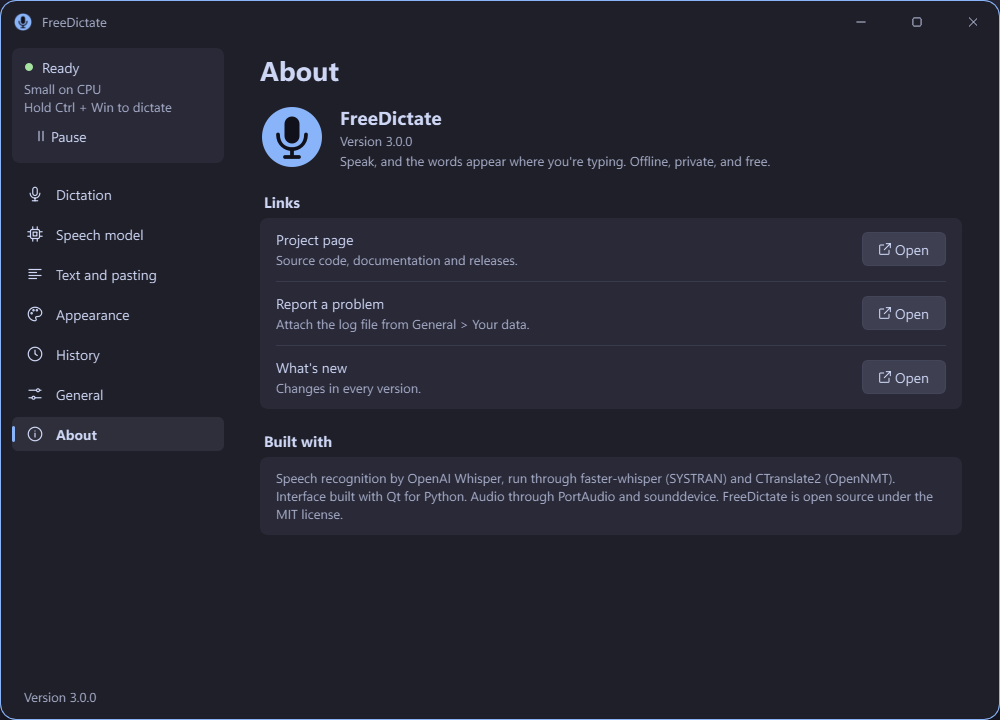
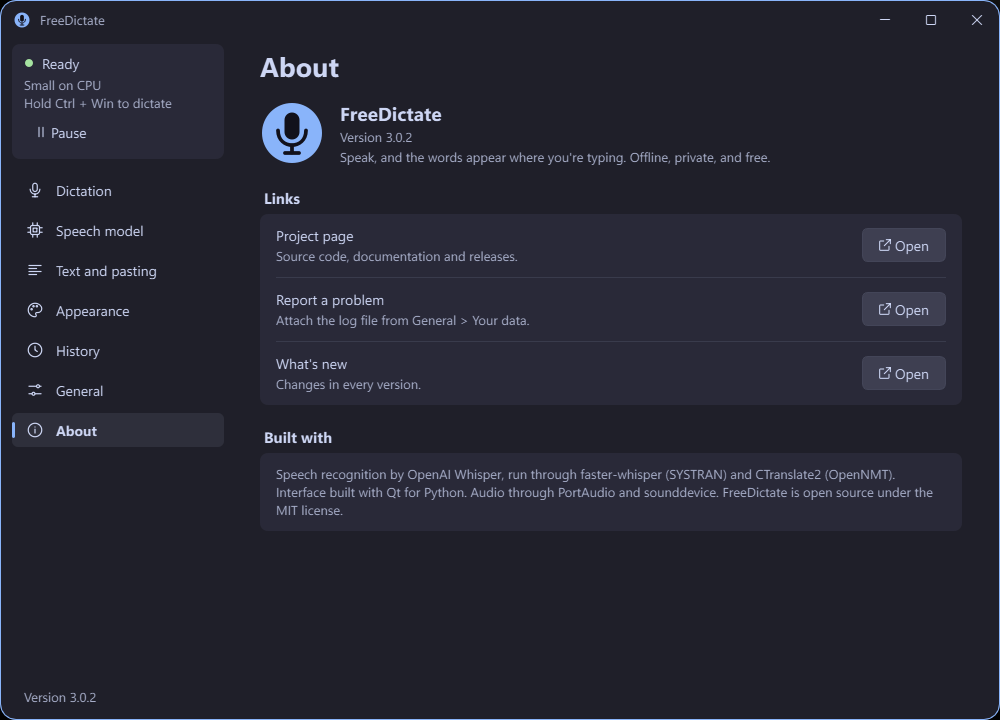
Fix slider clipping, native-titlebar tint, and History lag; release 3.0.2
- ui: sliders no longer clip the round handle - QSlider gets a 20px
  min-height so the 12px handle plus its 4px ring fits the widget (the
  top and bottom of the ring were cut off on every slider)
- ui: the tint now applies with the Windows title bar: the body takes
  the tint while Windows keeps its raw caption (DWM draws the caption
  outside the client area); the Appearance tint row stays enabled with
  a note instead of locking the slider
- ui: the History tab no longer rebuilds every card on each visit,
  keystroke and dictation: surviving cards are rebound in place, only
  the tail is torn down, and the rebuild waits until something changed
  and runs after the page paints - the multi-second tab lag is gone
- tests: three UI regression tests (handle geometry, tint row state,
  card-reuse growth); 33 passing
- docs: README previews regenerated from the fixed app; version 3.0.2

diff --git a/src/freedictate/ui/settings.py b/src/freedictate/ui/settings.py
@@ -88,6 +88,7 @@ class SettingsWindow(FluentWindow):
         self._meter_timer.setInterval(33)
         self._meter_timer.timeout.connect(self._meter_tick)
         self._history_limit = 150
+        self._history_stale = True
         self._search_timer = QTimer(self)
         self._search_timer.setSingleShot(True)
         self._search_timer.setInterval(180)
@@ -181,8 +182,10 @@ class SettingsWindow(FluentWindow):
             b.setChecked(k == key)
         self.stack.setCurrentWidget(self.pages[key])
         self.cfg.update({"window_page": key})
-        if key == "history":
-            self.reload_history()
+        if key == "history" and self._history_stale:
+            # Paint the page first, then fill it: building the cards inline
+            # blocked every switch to the tab for a noticeable beat.
+            QTimer.singleShot(0, self.reload_history)
         if key == "models":
             self._refresh_models()
         if key != "dictation":
@@ -786,8 +789,8 @@ class SettingsWindow(FluentWindow):
         card.add(self.keep_row)
         tb = Segmented([("custom", "FreeDictate"), ("windows", "Windows")], cfg["titlebar"])
         tb.changed.connect(lambda k: cfg.update({"titlebar": k}))
-        card.add(Row("Title bar", "Windows uses the standard title bar, buttons and menu. The material runs "
-                     "under it, so the body is left untinted to match.", tb))
+        card.add(Row("Title bar", "Windows uses the standard title bar, buttons and menu. Windows can't tint "
+                     "it, so it keeps the raw material while the body takes the tint.", tb))
         self._update_backdrop_note()
 
         card = page.section("Motion")
@@ -812,8 +815,9 @@ class SettingsWindow(FluentWindow):
         else:
             row.set_note("")
         native_tb = cfg["titlebar"] == "windows"
-        self.tint_row.setEnabled(not solid and not native_tb)
-        self.tint_row.set_note("The Windows title bar can't be tinted, so the tint is off to keep them matched."
+        self.tint_row.setEnabled(not solid)
+        self.tint_row.set_note("The Windows title bar keeps the raw material: Windows can't tint it. "
+                               "The tint covers the body."
                                if native_tb and not solid else "", "sub")
         self.keep_row.setEnabled(not solid)
 
@@ -877,14 +881,18 @@ class SettingsWindow(FluentWindow):
     def _history_changed(self) -> None:
         if self.isVisible() and self.stack.currentWidget() is self.pages["history"]:
             self.reload_history()
+        else:
+            # Rebuild on the next visit instead of on every write.
+            self._history_stale = True
 
     def _more_history(self) -> None:
         self._history_limit += 150
         self.reload_history()
 
     def reload_history(self) -> None:
-        if not hasattr(self, "hist_box"):
+        if not hasattr(self, "hist_box") or getattr(self, "_disposed", False):
             return
+        self._history_stale = False
         q = self.search.text()
         st = self.history.stats()
         if st["count"]:
@@ -897,12 +905,19 @@ class SettingsWindow(FluentWindow):
         entries = self.history.search(q, limit=self._history_limit)
         total = self.history.count(q)
         self.hist_holder.setUpdatesEnabled(False)
-        while self.hist_box.count():
-            w = self.hist_box.takeAt(0).widget()
+        # Rebind the surviving cards to the new entries; tear down only the
+        # tail and build only the growth. Deleting and recreating every card
+        # restyled ~150 frames per keystroke and per dictation.
+        while self.hist_box.count() > len(entries):
+            w = self.hist_box.takeAt(self.hist_box.count() - 1).widget()
             if w:
                 w.deleteLater()
-        for e in entries:
-            self.hist_box.addWidget(HistoryItem(e, self))
+        for i, e in enumerate(entries):
+            item = self.hist_box.itemAt(i).widget() if i < self.hist_box.count() else None
+            if item is None:
+                self.hist_box.addWidget(HistoryItem(e, self))
+            else:
+                item.rebind(e)
         self.hist_holder.setUpdatesEnabled(True)
         self.hist_holder.setVisible(bool(entries))
         if not entries:
@@ -1205,14 +1220,11 @@ class HistoryItem(QFrame):
         lay.setSpacing(10)
         text = QVBoxLayout()
         text.setSpacing(3)
-        when = time.strftime("%a %d %b, %I:%M %p", time.localtime(entry.ts)).replace(" 0", " ")
-        meta = [when, f"{entry.seconds:.0f} s"]
-        if entry.app:
-            meta.append(entry.app.removesuffix(".exe"))
-        text.addWidget(label("  ·  ".join(meta), "sub"))
-        body = label(entry.text if len(entry.text) < 600 else entry.text[:600].rstrip() + "...", wrap=True)
-        body.setTextInteractionFlags(Qt.TextInteractionFlag.TextSelectableByMouse)
-        text.addWidget(body)
+        self.meta_label = label(self._meta_text(entry), "sub")
+        text.addWidget(self.meta_label)
+        self.body_label = label(self._body_text(entry), wrap=True)
+        self.body_label.setTextInteractionFlags(Qt.TextInteractionFlag.TextSelectableByMouse)
+        text.addWidget(self.body_label)
         lay.addLayout(text, 1)
         copy = button("", "flat", icon="copy")
         copy.setToolTip("Copy")
@@ -1221,15 +1233,37 @@ class HistoryItem(QFrame):
         delete = button("", "flat", icon="trash")
         delete.setToolTip("Delete")
         delete.setAccessibleName("Delete dictation")
-        delete.clicked.connect(lambda: win.history.delete(entry.id))
+        delete.clicked.connect(self._delete)
         lay.addWidget(copy, 0, Qt.AlignmentFlag.AlignTop)
         lay.addWidget(delete, 0, Qt.AlignmentFlag.AlignTop)
         self.copy_btn = copy
+
+    @staticmethod
+    def _meta_text(entry) -> str:
+        when = time.strftime("%a %d %b, %I:%M %p", time.localtime(entry.ts)).replace(" 0", " ")
+        meta = [when, f"{entry.seconds:.0f} s"]
+        if entry.app:
+            meta.append(entry.app.removesuffix(".exe"))
+        return "  ·  ".join(meta)
+
+    @staticmethod
+    def _body_text(entry) -> str:
+        return entry.text if len(entry.text) < 600 else entry.text[:600].rstrip() + "..."
+
+    def rebind(self, entry) -> None:
+        """Show another entry in this card. Rebuilding ~150 styled frames on
+        every keystroke and every dictation was the History tab's lag."""
+        self.entry = entry
+        self.meta_label.setText(self._meta_text(entry))
+        self.body_label.setText(self._body_text(entry))
 
     def _copy(self) -> None:
         self.win.app.copy(self.entry.text)
         self.copy_btn.setIcon(icons.icon("check", theme.current().ok))
         QTimer.singleShot(1200, lambda: self.copy_btn.setIcon(icons.icon("copy", theme.current().text)))
+
+    def _delete(self) -> None:
+        self.win.history.delete(self.entry.id)
 
 
 def _model_title(name: str) -> str:

diff --git a/tests/test_ui.py b/tests/test_ui.py
@@ -1,0 +1,188 @@
+"""UI regression tests: the tint slider geometry, the tint with the Windows
+title bar, and the History tab's deferred, reuse-based reload."""
+import os
+import sys
+import time
+from types import SimpleNamespace
+
+os.environ.setdefault("QT_QPA_PLATFORM", "offscreen")
+os.environ.setdefault("QT_QPA_FONTDIR", r"C:\Windows\Fonts")
+
+import pytest
+from PySide6.QtWidgets import QApplication, QSlider, QStyle, QStyleOptionSlider
+
+from freedictate import paths
+from freedictate.app import Bus
+from freedictate.config import Config
+from freedictate.history import History
+from freedictate.ui import native, theme
+from freedictate.ui import settings as settings_mod
+from freedictate.ui.settings import SettingsWindow
+
+
+@pytest.fixture(scope="module")
+def qapp():
+    return QApplication.instance() or QApplication(sys.argv or ["fd-test"])
+
+
+@pytest.fixture(scope="module")
+def env(qapp):
+    paths.ensure()
+    pal = theme.set_current("Catppuccin Mocha", "Segoe UI Variable Text")
+    qapp.setStyleSheet(theme.stylesheet(pal, True))
+    qapp.setFont(theme.font())
+    hist = History()
+    if hist.count() < 50:
+        now = time.time()
+        for i in range(50):
+            hist.add(f"Regression seed {i}: a sentence long enough to wrap the card label.", 2.5,
+                     "large-v3", "chrome.exe", ts=now - i * 900)
+    yield SimpleNamespace(hist=hist)
+    hist.close()
+
+
+class FakeEngine:
+    state = "ready"
+    paused = False
+    suspended = False
+    model = object()
+
+    class _MS:
+        active, device, compute = "large-v3", "cuda", "float16"
+        status, error, wanted = "idle", "", "large-v3"
+        progress = (0, 1)
+
+    ms = _MS()
+
+    def status_text(self):
+        return "Ready"
+
+    def cancel_download(self):
+        pass
+
+    def ensure_model(self, force=False):
+        pass
+
+    def toggle_pause(self):
+        return False
+
+
+def make_app(cfg, hist):
+    eng = FakeEngine()
+    eng.recorder = SimpleNamespace(level=0.0, elapsed=lambda: 0.0)
+    return SimpleNamespace(
+        cfg=cfg, engine=eng, history=hist, bus=Bus(),
+        toggle_pause=lambda: None, pick_file=lambda: None,
+        notify=lambda *a, **k: None, copy=lambda t: None,
+        autostart_state=lambda: (False, False), set_autostart=lambda e, a: "",
+        check_updates=lambda manual=True: None, install_update=lambda: None,
+        download_gpu=lambda: None, cancel_gpu=lambda: None,
+        gpu_busy=False, update_busy=False, update_release=None)
+
+
+def fresh_cfg(**overrides):
+    cfg = Config()
+    cfg.update({"first_run_done": True, "window_page": "dictation",
+                "theme": "Catppuccin Mocha", "titlebar": "custom",
+                "backdrop": "mica_alt", "tint": 65})
+    cfg.update(overrides)
+    return cfg
+
+
+def pump(qapp, n=20):
+    for _ in range(n):
+        qapp.processEvents()
+
+
+def open_window(qapp, cfg, env):
+    win = SettingsWindow(make_app(cfg, env.hist))
+    win.show()
+    pump(qapp, 6)
+    return win
+
+
+def test_every_slider_fits_its_handle(qapp, env):
+    """The 12px handle plus its 4px ring is 20px tall; a shorter slider clips
+    the ring at the top and bottom."""
+    win = open_window(qapp, fresh_cfg(), env)
+    try:
+        sliders = win.findChildren(QSlider)
+        assert len(sliders) == 3  # sound volume, beam size, tint
+        for sl in sliders:
+            opt = QStyleOptionSlider()
+            sl.initStyleOption(opt)
+            handle = sl.style().subControlRect(QStyle.ComplexControl.CC_Slider, opt,
+                                               QStyle.SubControl.SC_SliderHandle, sl)
+            assert handle.height() <= sl.height(), (handle, sl.height())
+            assert 0 <= handle.top() and handle.bottom() < sl.height()
+    finally:
+        win.dispose()
+        win.close()
+
+
+def test_tint_stays_usable_with_windows_titlebar(qapp, env):
+    cfg = fresh_cfg(titlebar="windows")
+    win = open_window(qapp, cfg, env)
+    try:
+        assert win.tint_row.isEnabled()
+        assert "raw material" in win.tint_row.note.text()
+        if not (native.backdrop_supported() and native.transparency_enabled()):
+            pytest.skip("no systembackdrop on this machine")
+        win.set_look("mica_alt", 0.0, cfg["backdrop_when_inactive"])
+        pump(qapp, 6)
+        img0 = win.grab().toImage()
+        win.set_look("mica_alt", 0.65, cfg["backdrop_when_inactive"])
+        pump(qapp, 6)
+        img65 = win.grab().toImage()
+        x, y = win.width() - 12, win.height() // 2
+        assert img0.pixelColor(x, y) != img65.pixelColor(x, y), "tint must paint the body"
+    finally:
+        win.dispose()
+        win.close()
+
+
+def test_history_reloads_deferred_and_reuses_cards(qapp, env):
+    counter = {"n": 0}
+    orig = settings_mod.HistoryItem
+
+    class Counting(orig):
+        def __init__(self, *a, **k):
+            counter["n"] += 1
+            super().__init__(*a, **k)
+
+    settings_mod.HistoryItem = Counting
+    win = open_window(qapp, fresh_cfg(), env)
+    try:
+        win.go("history")
+        assert counter["n"] == 0, "the tab switch must not build inline"
+        pump(qapp)
+        built = counter["n"]
+        assert 0 < built <= 150
+        assert win.hist_box.itemAt(0).widget().body_label.text() == env.hist.search("", limit=1)[0].text
+
+        win.go("dictation")
+        pump(qapp, 6)
+        win.go("history")
+        pump(qapp)
+        assert counter["n"] == built, "returning to the tab must not rebuild"
+
+        env.hist.add("Dictated while watching the History page.", 1.0, "large-v3", "notepad.exe")
+        win.app.bus.history_changed.emit()
+        pump(qapp)
+        assert counter["n"] == built + 1, "only the new card may be built, never the whole page"
+        assert win.hist_box.itemAt(0).widget().body_label.text() == \
+            "Dictated while watching the History page."
+
+        win.go("dictation")
+        pump(qapp, 6)
+        env.hist.add("Another dictation written on another page.", 1.0, "large-v3", "notepad.exe")
+        win.app.bus.history_changed.emit()   # marks the tab stale
+        win.go("history")
+        pump(qapp)
+        assert counter["n"] == built + 2, "returning must rebind, not rebuild"
+        assert win.hist_box.itemAt(0).widget().body_label.text() == \
+            "Another dictation written on another page."
+    finally:
+        settings_mod.HistoryItem = orig
+        win.dispose()
+        win.close()

diff --git a/src/freedictate/ui/window.py b/src/freedictate/ui/window.py
@@ -205,13 +205,10 @@ class FluentWindow(QWidget):
     def paintEvent(self, e):
         p = QPainter(self)
         pal = theme.current()
-        if self._backdrop == "solid":
-            alpha = 1.0
-        elif self._native_tb:
-            # The caption can't be tinted, so the body stays untinted to match.
-            alpha = 0.0
-        else:
-            alpha = self._tint
+        # Solid covers the material completely; a material takes the tint over
+        # it. The Windows title bar can't take the tint: it keeps the raw
+        # material, drawn by DWM outside this client area.
+        alpha = 1.0 if self._backdrop == "solid" else self._tint
         # One step above zero keeps the window clickable: a layered window's
         # fully transparent pixels pass clicks to the window behind.
         p.fillRect(self.rect(), theme.qc(pal.bg, max(alpha, 1 / 255)))

diff --git a/src/freedictate/ui/theme.py b/src/freedictate/ui/theme.py
@@ -193,6 +193,9 @@ QComboBoxPrivateContainer {{ background: transparent; border: none; }}
 QComboBox QAbstractItemView::item {{ min-height: 30px; padding: 0 8px; border-radius: 4px; }}
 QComboBox QAbstractItemView::item:hover {{ background: {rgba(p.hover, 0.7)}; }}
 
+/* The handle is 12px + a 4px ring = 20px tall; without a matching widget
+   height Qt sizes the slider to 15px and clips the ring at top and bottom. */
+QSlider:horizontal {{ min-height: 20px; }}
 QSlider::groove:horizontal {{ height: 4px; background: {rgba(p.line, 1.0)}; border-radius: 2px; }}
 QSlider::sub-page:horizontal {{ background: {p.accent}; border-radius: 2px; }}
 QSlider::handle:horizontal {{ background: {p.accent}; border: 4px solid {mix(p.surface, p.bg, 0.3)}; width: 12px; height: 12px;

diff --git a/src/freedictate/__init__.py b/src/freedictate/__init__.py
@@ -1,6 +1,6 @@
 """FreeDictate: offline push-to-talk dictation for Windows."""
 
-__version__ = "3.0.1"
+__version__ = "3.0.2"
 APP_NAME = "FreeDictate"
 APP_ID = "DavidHiFi.FreeDictate"  # AppUserModelID; the installer stamps the same ID on shortcuts
 REPO = "DavidHiFi/freedictate"

diff --git a/README.md b/README.md
@@ -48,7 +48,7 @@ Everything lives in one window with seven pages:
 - **Dictation** — hotkey and mode, microphone with a live level test, sounds and volume, auto-stop on silence, vocabulary hints passed to the model, pause.
 - **Speech model** — pick a Whisper model: from *Tiny* (75 MB, fastest) to *Large v3 Turbo*, English-only or multilingual, CPU or NVIDIA GPU. A fallback model keeps dictation working while a new one downloads.
 - **Text and pasting** — filler removal, capitalization, end punctuation, voice commands ("new line", "new paragraph"), find-and-replace rules, output method (paste / Shift+Insert / type / clipboard only) and clipboard restore.
-- **Appearance** — ten themes plus *Match Windows*, the Windows accent colour, any installed font, and the window material: **Mica Alt, Mica, Acrylic** or solid, with a tint slider. Backdrops need Windows 11 22H2 and transparency turned on; otherwise you get the solid look automatically. The title bar can be FreeDictate's own or the standard Windows one; with the Windows title bar the material runs under it and matches the body.
+- **Appearance** — ten themes plus *Match Windows*, the Windows accent colour, any installed font, and the window material: **Mica Alt, Mica, Acrylic** or solid, with a tint slider. Backdrops need Windows 11 22H2 and transparency turned on; otherwise you get the solid look automatically. The title bar can be FreeDictate's own or the standard Windows one; with the Windows title bar the material runs under it and the tint covers the body (Windows can't tint its own caption, which keeps the raw material).
 - **History** — searchable dictation history in SQLite on your PC, retention in days, clear or export. Transcribe audio and video files here too.
 - **General** — start at login (normal or elevated), update settings, prerelease channel, export/import settings.
 - **About** — version, licences, links.
